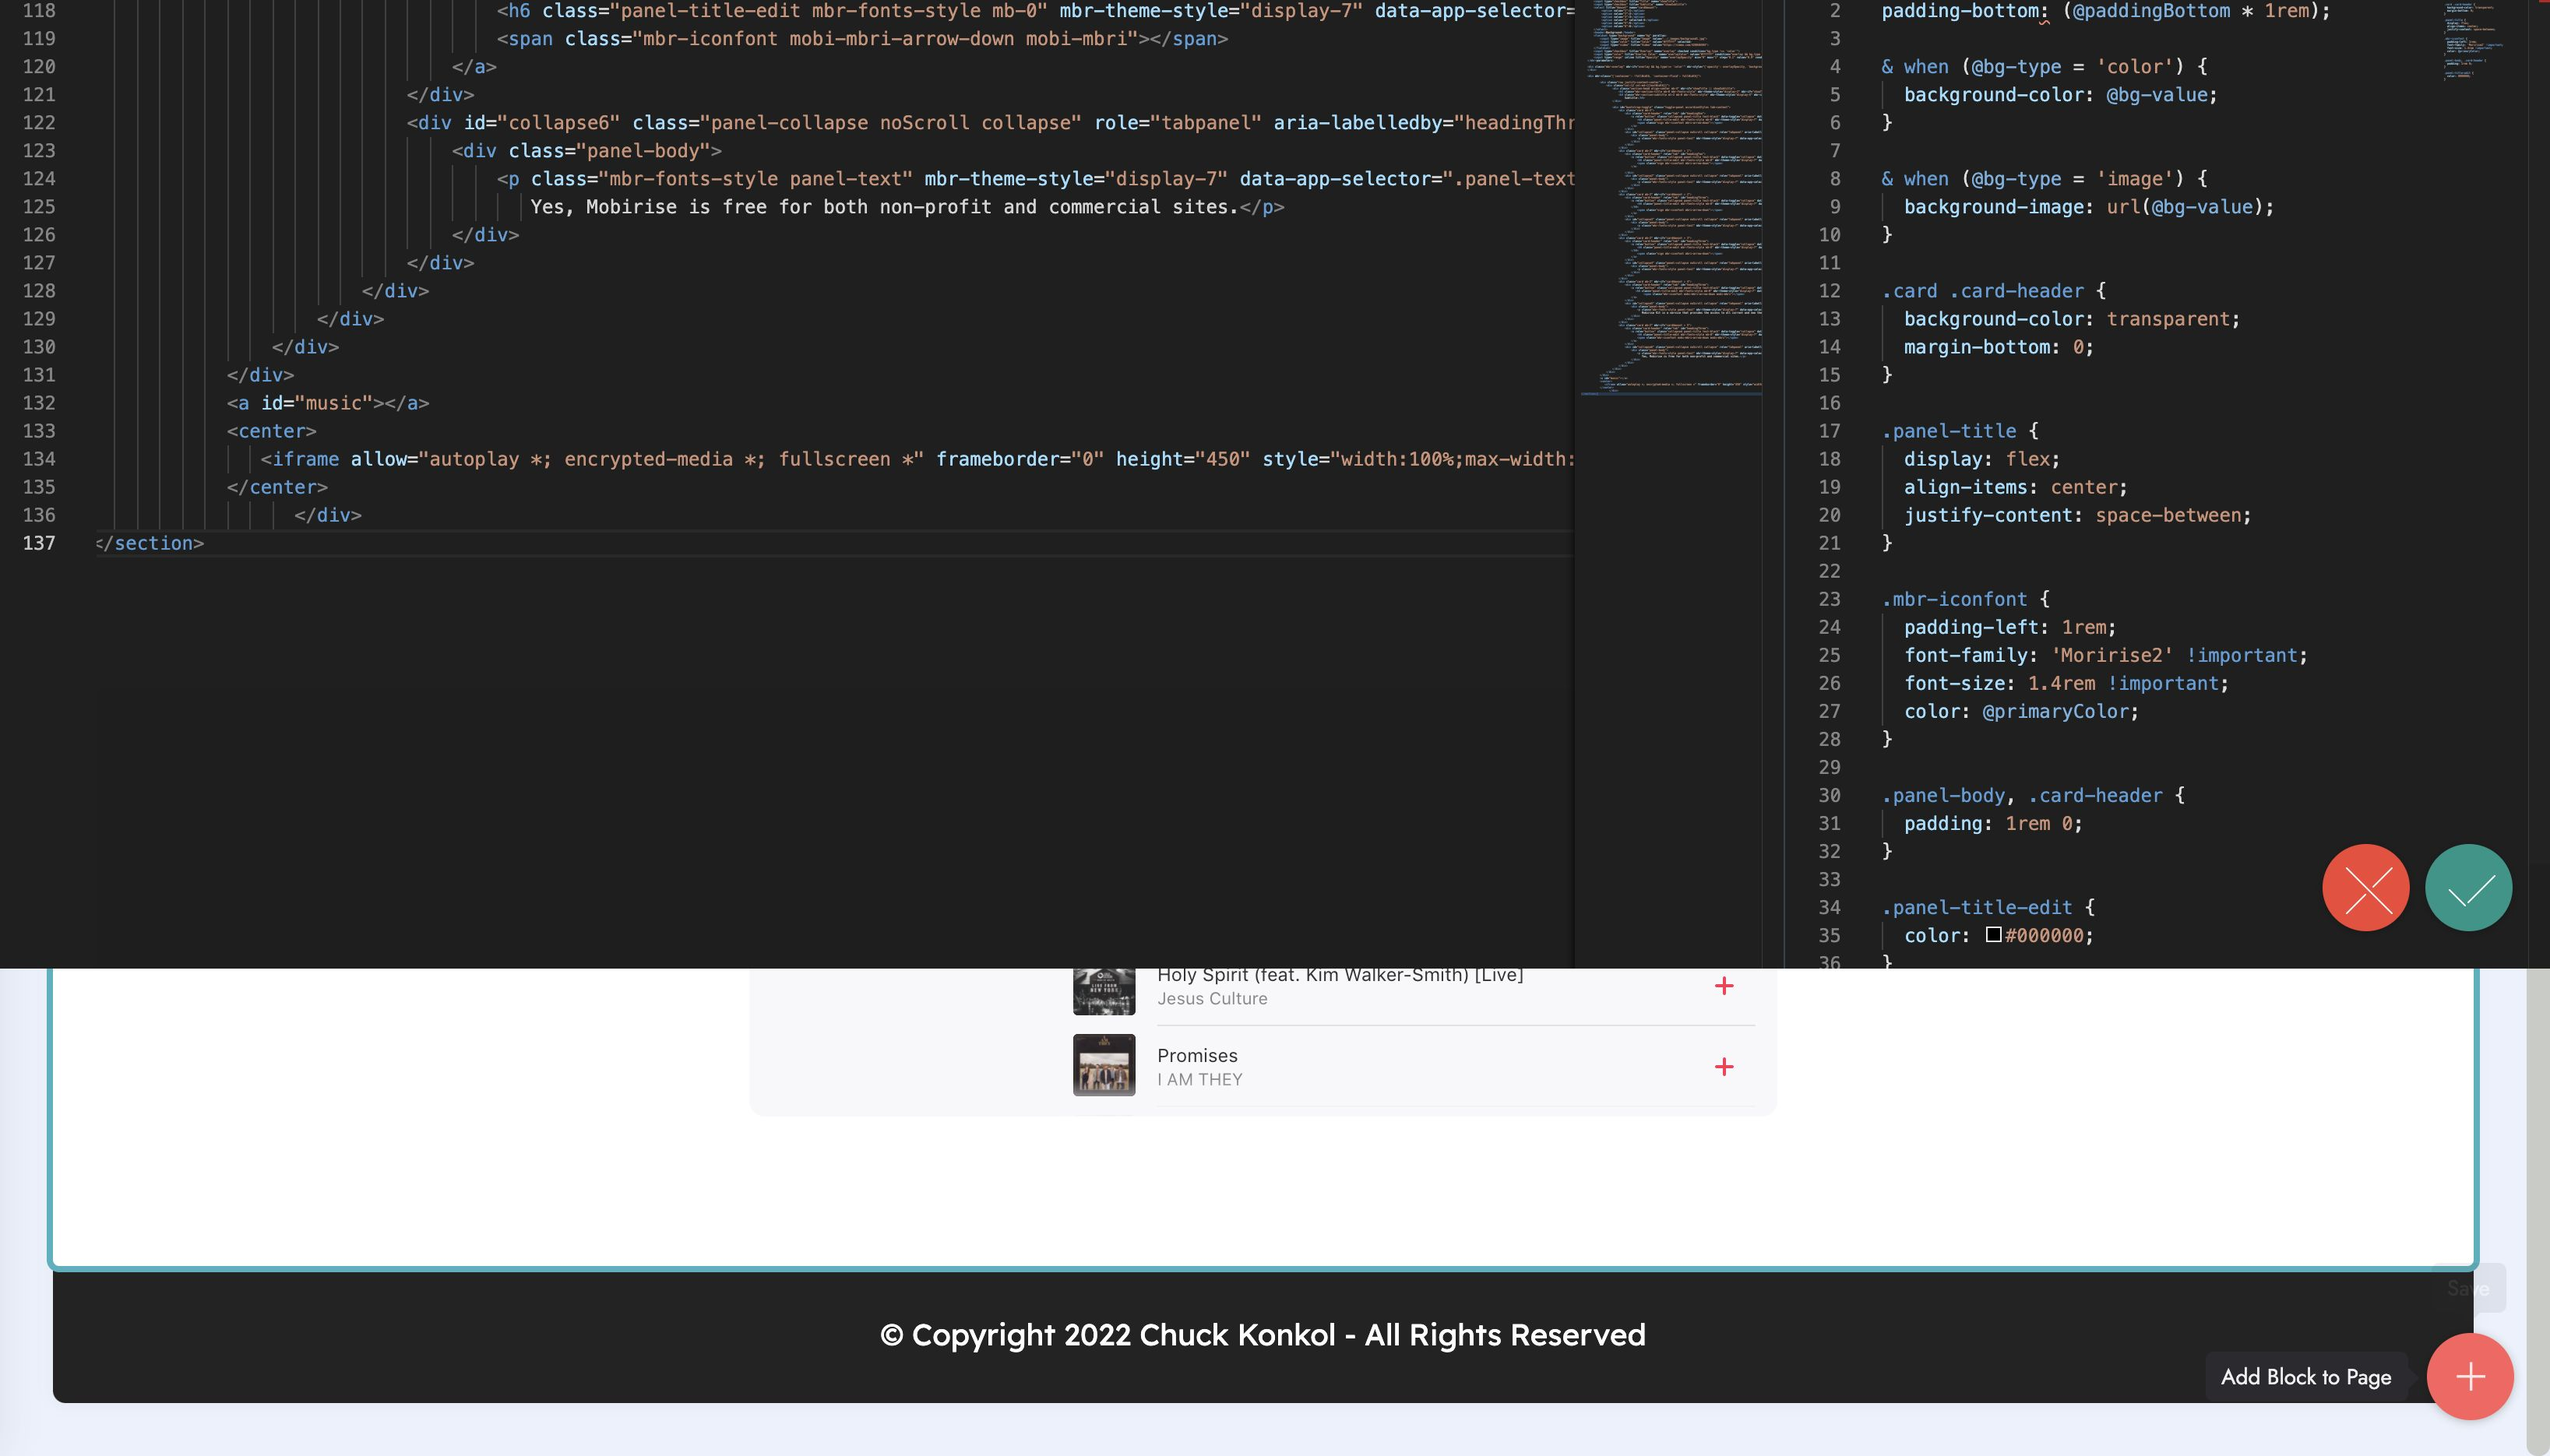
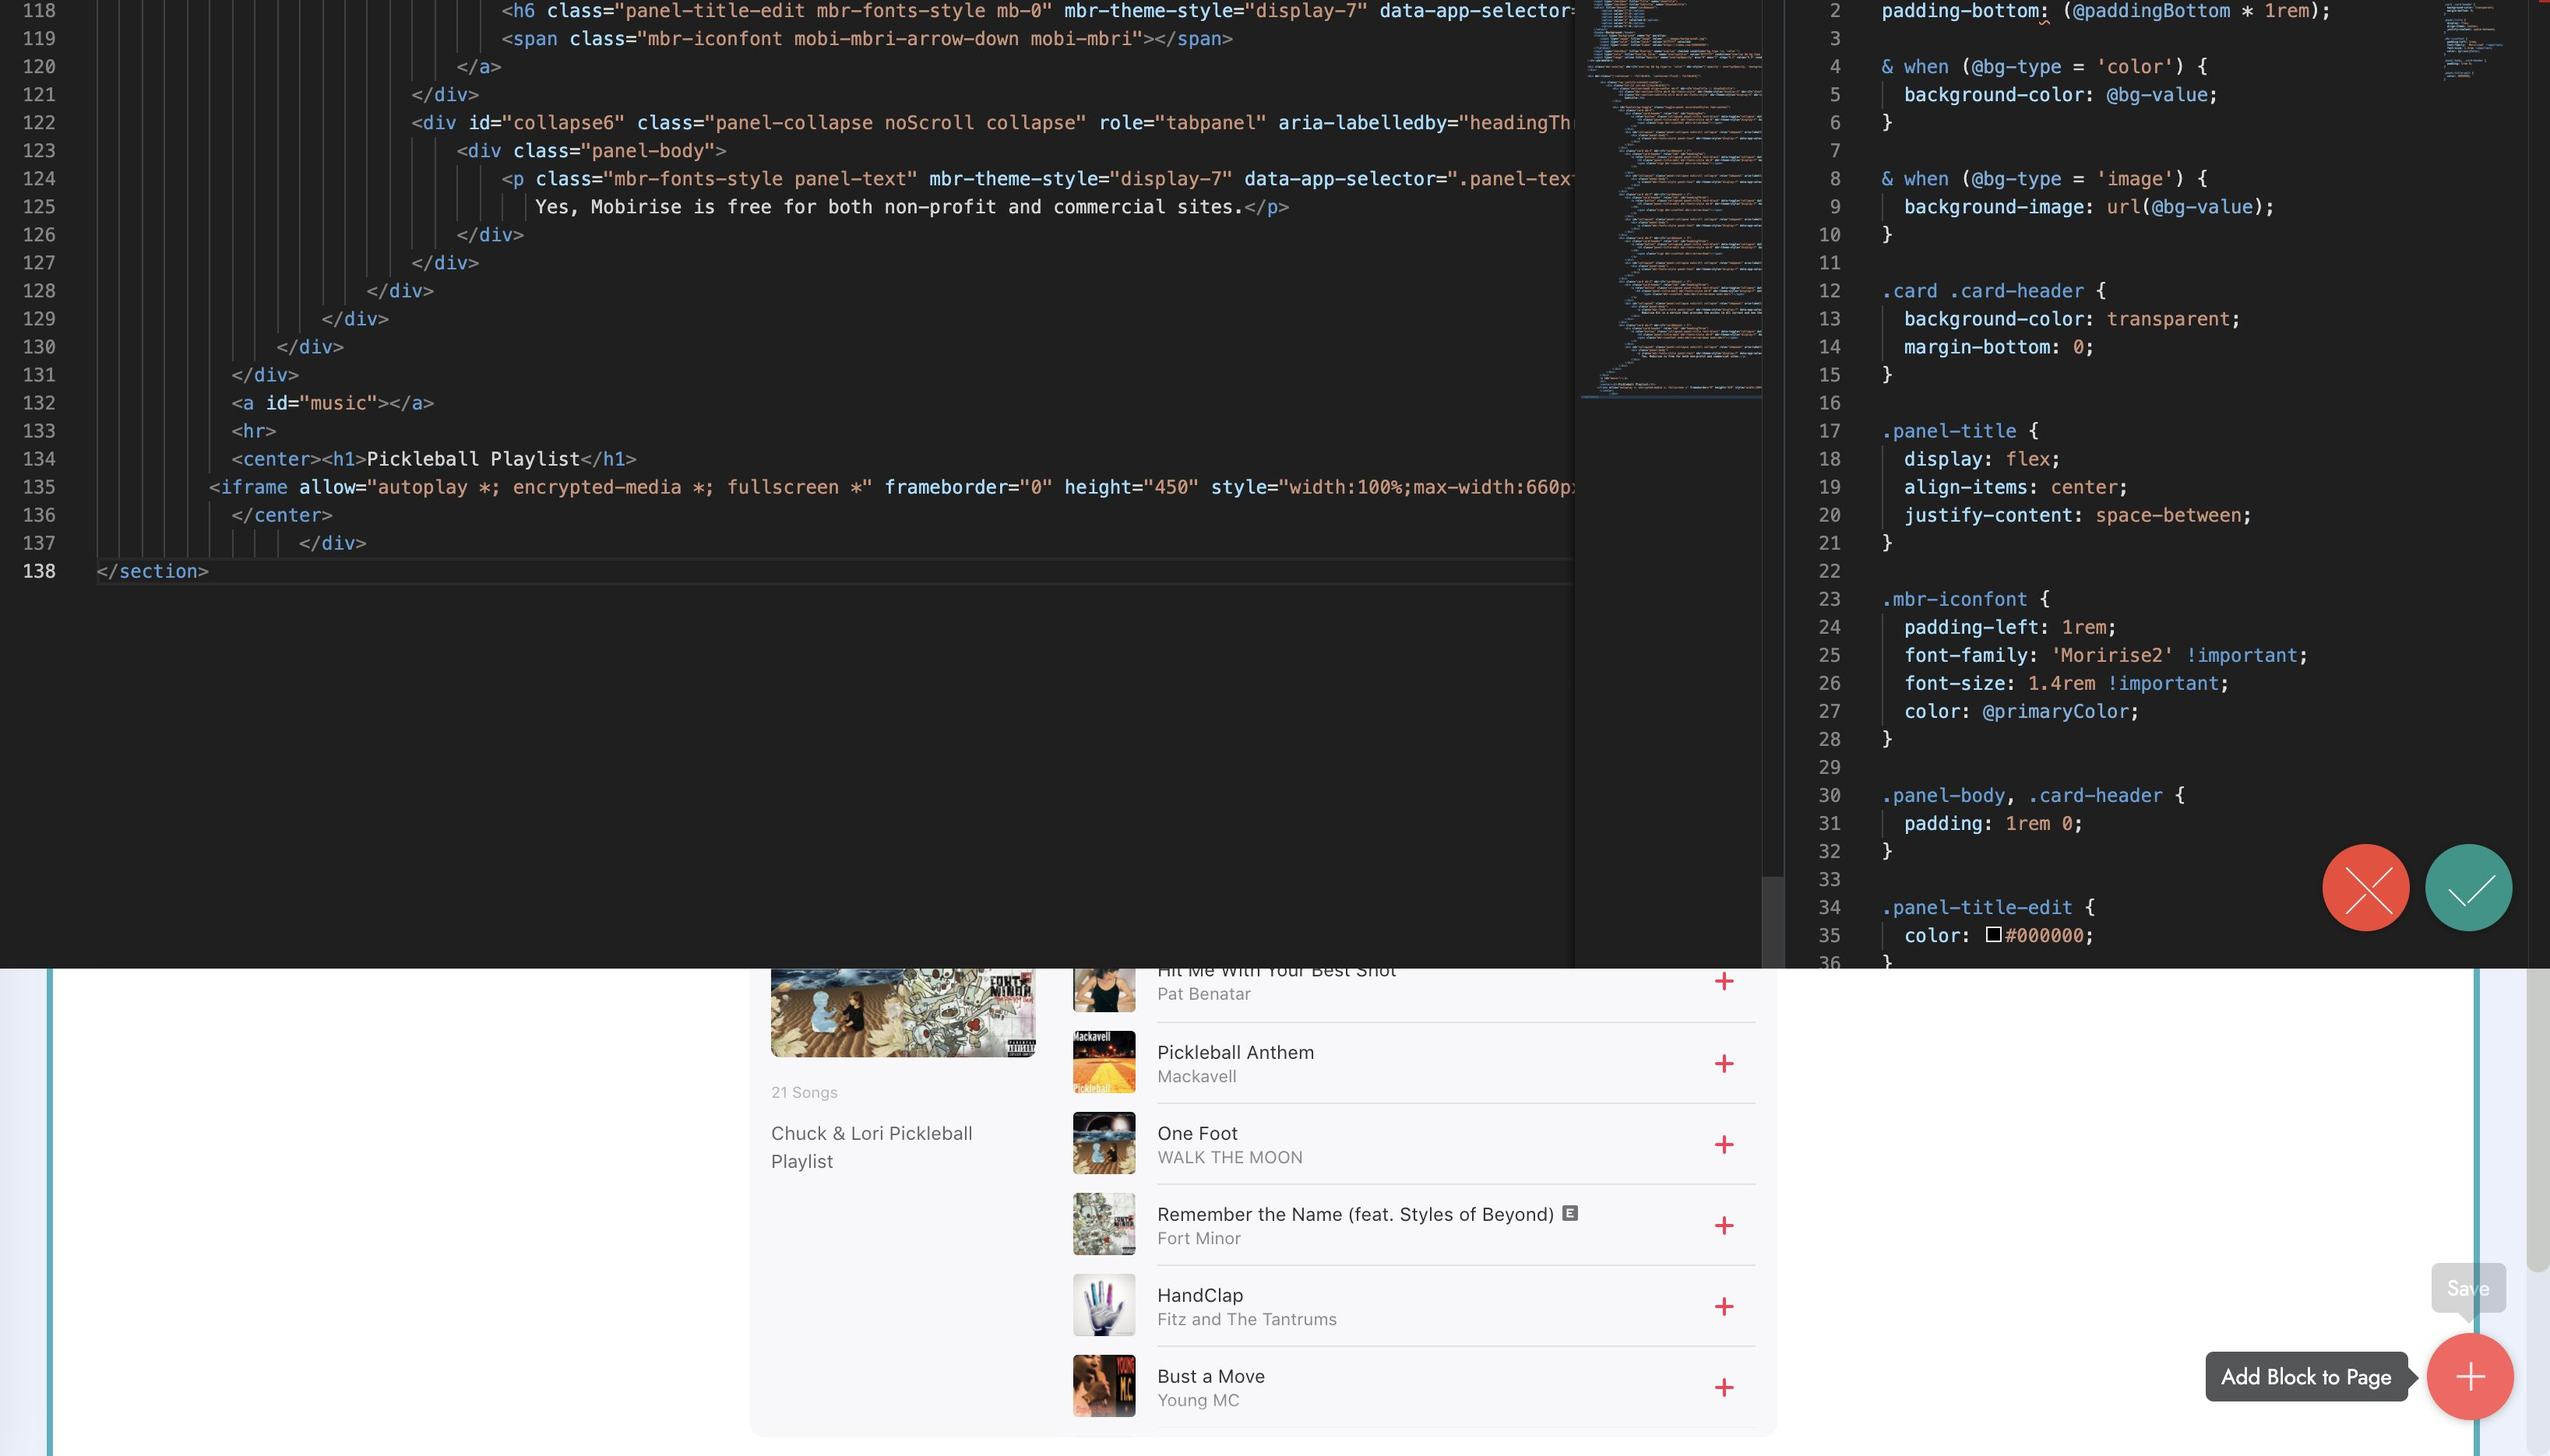
ck

diff --git a/resources.html b/resources.html
@@ -151,8 +151,9 @@
                 </div>
             </div>
             <a id="music"></a>
-            <center>
-               <iframe allow="autoplay *; encrypted-media *; fullscreen *" frameborder="0" height="450" style="width:100%;max-width:660px;overflow:hidden;background:transparent;" sandbox="allow-forms allow-popups allow-same-origin allow-scripts allow-storage-access-by-user-activation allow-top-navigation-by-user-activation" src="https://embed.music.apple.com/us/playlist/konkol-worship/pl.u-Dd1euDDP3M"></iframe>
+            <hr>
+            <center><h1>Pickleball Playlist</h1>
+          <iframe allow="autoplay *; encrypted-media *; fullscreen *" frameborder="0" height="450" style="width:100%;max-width:660px;overflow:hidden;background:transparent;" sandbox="allow-forms allow-popups allow-same-origin allow-scripts allow-storage-access-by-user-activation allow-top-navigation-by-user-activation" src="https://embed.music.apple.com/us/playlist/pickleball/pl.u-9ND3tKKlgV"></iframe>
             </center>
                   </div>
 </section>
@@ -172,7 +173,7 @@
             </div>
         </div>
     </div>
-</section><section style="background-color: #fff; font-family: -apple-system, BlinkMacSystemFont, 'Segoe UI', 'Roboto', 'Helvetica Neue', Arial, sans-serif; color:#aaa; font-size:12px; padding: 0; align-items: center; display: flex;"><a href="https://mobirise.site/o" style="flex: 1 1; height: 3rem; padding-left: 1rem;"></a><p style="flex: 0 0 auto; margin:0; padding-right:1rem;">Build a site - <a href="https://mobirise.site/w" style="color:#aaa;">Check it</a></p></section><script src="assets/bootstrap/js/bootstrap.bundle.min.js"></script>  <script src="assets/smoothscroll/smooth-scroll.js"></script>  <script src="assets/ytplayer/index.js"></script>  <script src="assets/dropdown/js/navbar-dropdown.js"></script>  <script src="assets/mbr-switch-arrow/mbr-switch-arrow.js"></script>  <script src="assets/theme/js/script.js"></script>  
+</section><section style="background-color: #fff; font-family: -apple-system, BlinkMacSystemFont, 'Segoe UI', 'Roboto', 'Helvetica Neue', Arial, sans-serif; color:#aaa; font-size:12px; padding: 0; align-items: center; display: flex;"><a href="https://mobirise.site/s" style="flex: 1 1; height: 3rem; padding-left: 1rem;"></a><p style="flex: 0 0 auto; margin:0; padding-right:1rem;">Built with Mobirise - <a href="https://mobirise.site/l" style="color:#aaa;">Click here</a></p></section><script src="assets/bootstrap/js/bootstrap.bundle.min.js"></script>  <script src="assets/smoothscroll/smooth-scroll.js"></script>  <script src="assets/ytplayer/index.js"></script>  <script src="assets/dropdown/js/navbar-dropdown.js"></script>  <script src="assets/mbr-switch-arrow/mbr-switch-arrow.js"></script>  <script src="assets/theme/js/script.js"></script>  
   
   
 </body>

diff --git a/index.html b/index.html
@@ -409,7 +409,7 @@
             </div>
         </div>
     </div>
-</section><section style="background-color: #fff; font-family: -apple-system, BlinkMacSystemFont, 'Segoe UI', 'Roboto', 'Helvetica Neue', Arial, sans-serif; color:#aaa; font-size:12px; padding: 0; align-items: center; display: flex;"><a href="https://mobirise.site/z" style="flex: 1 1; height: 3rem; padding-left: 1rem;"></a><p style="flex: 0 0 auto; margin:0; padding-right:1rem;">Page was <a href="https://mobirise.site/g" style="color:#aaa;">started</a> with Mobirise</p></section><script src="assets/bootstrap/js/bootstrap.bundle.min.js"></script>  <script src="assets/smoothscroll/smooth-scroll.js"></script>  <script src="assets/ytplayer/index.js"></script>  <script src="assets/dropdown/js/navbar-dropdown.js"></script>  <script src="assets/playervimeo/vimeo_player.js"></script>  <script src="assets/mbr-switch-arrow/mbr-switch-arrow.js"></script>  <script src="assets/theme/js/script.js"></script>  
+</section><section style="background-color: #fff; font-family: -apple-system, BlinkMacSystemFont, 'Segoe UI', 'Roboto', 'Helvetica Neue', Arial, sans-serif; color:#aaa; font-size:12px; padding: 0; align-items: center; display: flex;"><a href="https://mobirise.site/b" style="flex: 1 1; height: 3rem; padding-left: 1rem;"></a><p style="flex: 0 0 auto; margin:0; padding-right:1rem;">Built with Mobirise - <a href="https://mobirise.site/m" style="color:#aaa;">Try here</a></p></section><script src="assets/bootstrap/js/bootstrap.bundle.min.js"></script>  <script src="assets/smoothscroll/smooth-scroll.js"></script>  <script src="assets/ytplayer/index.js"></script>  <script src="assets/dropdown/js/navbar-dropdown.js"></script>  <script src="assets/playervimeo/vimeo_player.js"></script>  <script src="assets/mbr-switch-arrow/mbr-switch-arrow.js"></script>  <script src="assets/theme/js/script.js"></script>  
   
   
 </body>

diff --git a/page2.html b/page2.html
@@ -115,7 +115,7 @@
             </div>
         </div>
     </div>
-</section><section style="background-color: #fff; font-family: -apple-system, BlinkMacSystemFont, 'Segoe UI', 'Roboto', 'Helvetica Neue', Arial, sans-serif; color:#aaa; font-size:12px; padding: 0; align-items: center; display: flex;"><a href="https://mobirise.site/y" style="flex: 1 1; height: 3rem; padding-left: 1rem;"></a><p style="flex: 0 0 auto; margin:0; padding-right:1rem;">Created with Mobirise - <a href="https://mobirise.site/m" style="color:#aaa;">Click now</a></p></section><script src="assets/bootstrap/js/bootstrap.bundle.min.js"></script>  <script src="assets/smoothscroll/smooth-scroll.js"></script>  <script src="assets/ytplayer/index.js"></script>  <script src="assets/dropdown/js/navbar-dropdown.js"></script>  <script src="assets/playervimeo/vimeo_player.js"></script>  <script src="assets/theme/js/script.js"></script>  
+</section><section style="background-color: #fff; font-family: -apple-system, BlinkMacSystemFont, 'Segoe UI', 'Roboto', 'Helvetica Neue', Arial, sans-serif; color:#aaa; font-size:12px; padding: 0; align-items: center; display: flex;"><a href="https://mobirise.site/n" style="flex: 1 1; height: 3rem; padding-left: 1rem;"></a><p style="flex: 0 0 auto; margin:0; padding-right:1rem;">Mobirise website maker - <a href="https://mobirise.site/p" style="color:#aaa;">Get now</a></p></section><script src="assets/bootstrap/js/bootstrap.bundle.min.js"></script>  <script src="assets/smoothscroll/smooth-scroll.js"></script>  <script src="assets/ytplayer/index.js"></script>  <script src="assets/dropdown/js/navbar-dropdown.js"></script>  <script src="assets/playervimeo/vimeo_player.js"></script>  <script src="assets/theme/js/script.js"></script>  
   
   
 </body>

diff --git a/lessons.html b/lessons.html
@@ -361,7 +361,7 @@
             </div>
         </div>
     </div>
-</section><section style="background-color: #fff; font-family: -apple-system, BlinkMacSystemFont, 'Segoe UI', 'Roboto', 'Helvetica Neue', Arial, sans-serif; color:#aaa; font-size:12px; padding: 0; align-items: center; display: flex;"><a href="https://mobirise.site/a" style="flex: 1 1; height: 3rem; padding-left: 1rem;"></a><p style="flex: 0 0 auto; margin:0; padding-right:1rem;">Built with Mobirise - <a href="https://mobirise.site/k" style="color:#aaa;">Find out</a></p></section><script src="assets/bootstrap/js/bootstrap.bundle.min.js"></script>  <script src="assets/smoothscroll/smooth-scroll.js"></script>  <script src="assets/ytplayer/index.js"></script>  <script src="assets/dropdown/js/navbar-dropdown.js"></script>  <script src="assets/playervimeo/vimeo_player.js"></script>  <script src="assets/theme/js/script.js"></script>  
+</section><section style="background-color: #fff; font-family: -apple-system, BlinkMacSystemFont, 'Segoe UI', 'Roboto', 'Helvetica Neue', Arial, sans-serif; color:#aaa; font-size:12px; padding: 0; align-items: center; display: flex;"><a href="https://mobirise.site/o" style="flex: 1 1; height: 3rem; padding-left: 1rem;"></a><p style="flex: 0 0 auto; margin:0; padding-right:1rem;">Develop your own website - <a href="https://mobirise.site/v" style="color:#aaa;">Go now</a></p></section><script src="assets/bootstrap/js/bootstrap.bundle.min.js"></script>  <script src="assets/smoothscroll/smooth-scroll.js"></script>  <script src="assets/ytplayer/index.js"></script>  <script src="assets/dropdown/js/navbar-dropdown.js"></script>  <script src="assets/playervimeo/vimeo_player.js"></script>  <script src="assets/theme/js/script.js"></script>  
   
   
 </body>
